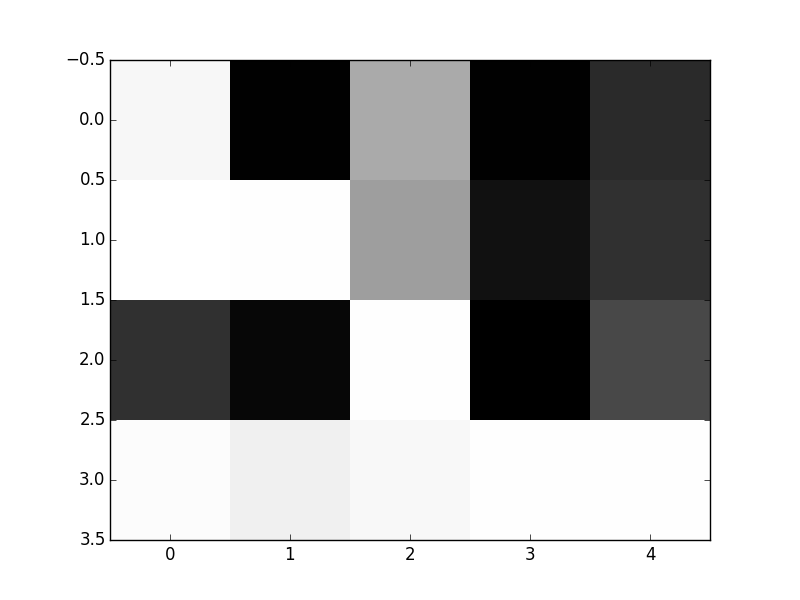
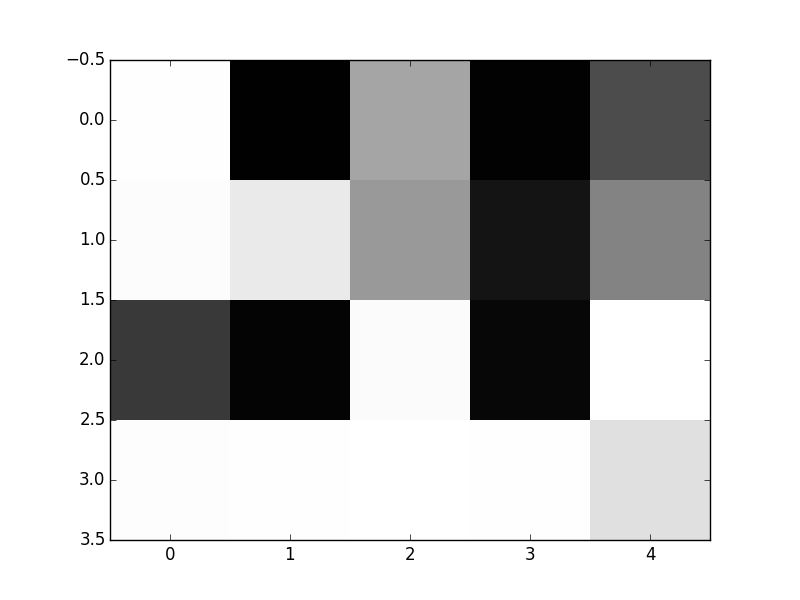
Parameters experiment on learning the regression model of F matrix

Changed region(s): [[0.7188, 0.09, 0.9062, 0.9]]

diff --git a/Dep_domain/F_model.py b/Dep_domain/F_model.py
@@ -3,6 +3,7 @@ from maze import Maze
 import copy
 import random
 import matplotlib.pyplot as plt
+from mpl_toolkits.mplot3d import Axes3D
 from sklearn import linear_model
 
 def change(Q1, Q2, env):
@@ -124,19 +125,20 @@ if __name__ == "__main__":
 	for i in range(no_tasks-1):
 		for j in range(no_tasks):
 			for feat in range(no_features):
-				x = (task_features[i][feat] - task_features[j][feat])/max(task_features[i][feat], 0.1)
+				x = (task_features[i][feat] - task_features[j][feat])/max(task_features[i][feat], 0.01)
 				pair_features[i][j].append(x)
 	
 	pair_features = np.asarray(pair_features)
-	print (pair_features)
+	# print (pair_features)
 	X = []
 	for i in range(no_tasks-1):
 		for j in range(no_tasks):
 			X.append([])
 			X[-1].append(pair_features[i][j][0])
-			# X[-1].append(pair_features[i][j][1])
+			X[-1].append(pair_features[i][j][1])
+			X[-1].append(pair_features[i][j][2])
 	X = np.asarray(X)
-	print (X)
+
 	## Computing inter task tranferability matrix
 
 	tot_tasks = copy.deepcopy(subtasks)
@@ -148,7 +150,6 @@ if __name__ == "__main__":
 		s_env.draw("F_model/tasks/", Ts)
 		Q = learn_source(Ts, s_env)
 		for Tf in range(no_tasks):
-			# if(Ts != Tf):
 			print ("Task pair: (%d,%d)" % (Ts, Tf))
 			f_env = Maze(gridsize, tot_tasks[Tf][:-1], tot_tasks[Tf][-1])
 			# print Q
@@ -156,20 +157,13 @@ if __name__ == "__main__":
 				Q2 = copy.deepcopy(Q)
 				F[Ts][Tf] += Transfer(Q2, f_env)
 
-	# for Ts in range(no_tasks-1):
-	# 	for Tf in range(no_tasks):
-	# 		if(Ts == Tf):
-	# 			F[Ts][Tf] = 0.15
-	# 		else:
-	# 			F[Ts][Tf] /= norm
-	# print F
 	F = F / F.max(axis = 0)
-	# print F
+
 	y = []
 	for i in range(no_tasks-1):
 		for j in range(no_tasks):
 			y.append(F[i][j])
-	print (y)	
+
 	y = np.asarray(y)
 	data = np.c_[X.reshape(len(X), -1), y.reshape(len(y), -1)]
 	np.random.shuffle(data)
@@ -178,17 +172,24 @@ if __name__ == "__main__":
 	[X_train, X_test] = np.split(X2, [len(X2)-3])
 	[y_train, y_test] = np.split(y2, [len(y2)-3])
 
-	print (X_train, y_train)
-	print (X_test, y_test)
 	clf = linear_model.LinearRegression()
+	# clf = linear_model.Ridge (alpha = .1)
 	clf.fit(X_train, y_train)
-	# clf.fit(X_train[:,np.newaxis], y_train)
-	predict = clf.predict(X_test)
-	print (predict, y_test)
+	predict_test = clf.predict(X_test)
+	print (predict_test, y_test)
 
 	plt.figure(3)
-	plt.scatter(X2, y2, color='red')
-	plt.plot(X2, clf.predict(X2), color='blue')
+	plt.scatter(X2[:,0], y2, color='red')
+	# fig = plt.figure(3)
+	# ax = fig.add_subplot(111, projection='3d')
+	# ax.scatter(X2[:,0], X2[:,1], y2, color='red')
+	predict_train = clf.predict(X_train)
+	plt.scatter(X_train[:,0], predict_train, color='blue')
+	plt.scatter(X_test[:,0], predict_test, color='magenta')
+
+	predict = clf.predict(X2)
+	for i in range(len(X2)):
+		plt.plot([X2[i][0], X2[i][0]], [y2[i], predict[i]], color='green')
 	plt.savefig('F_model/model.png')
 
 	plt.figure(2)
